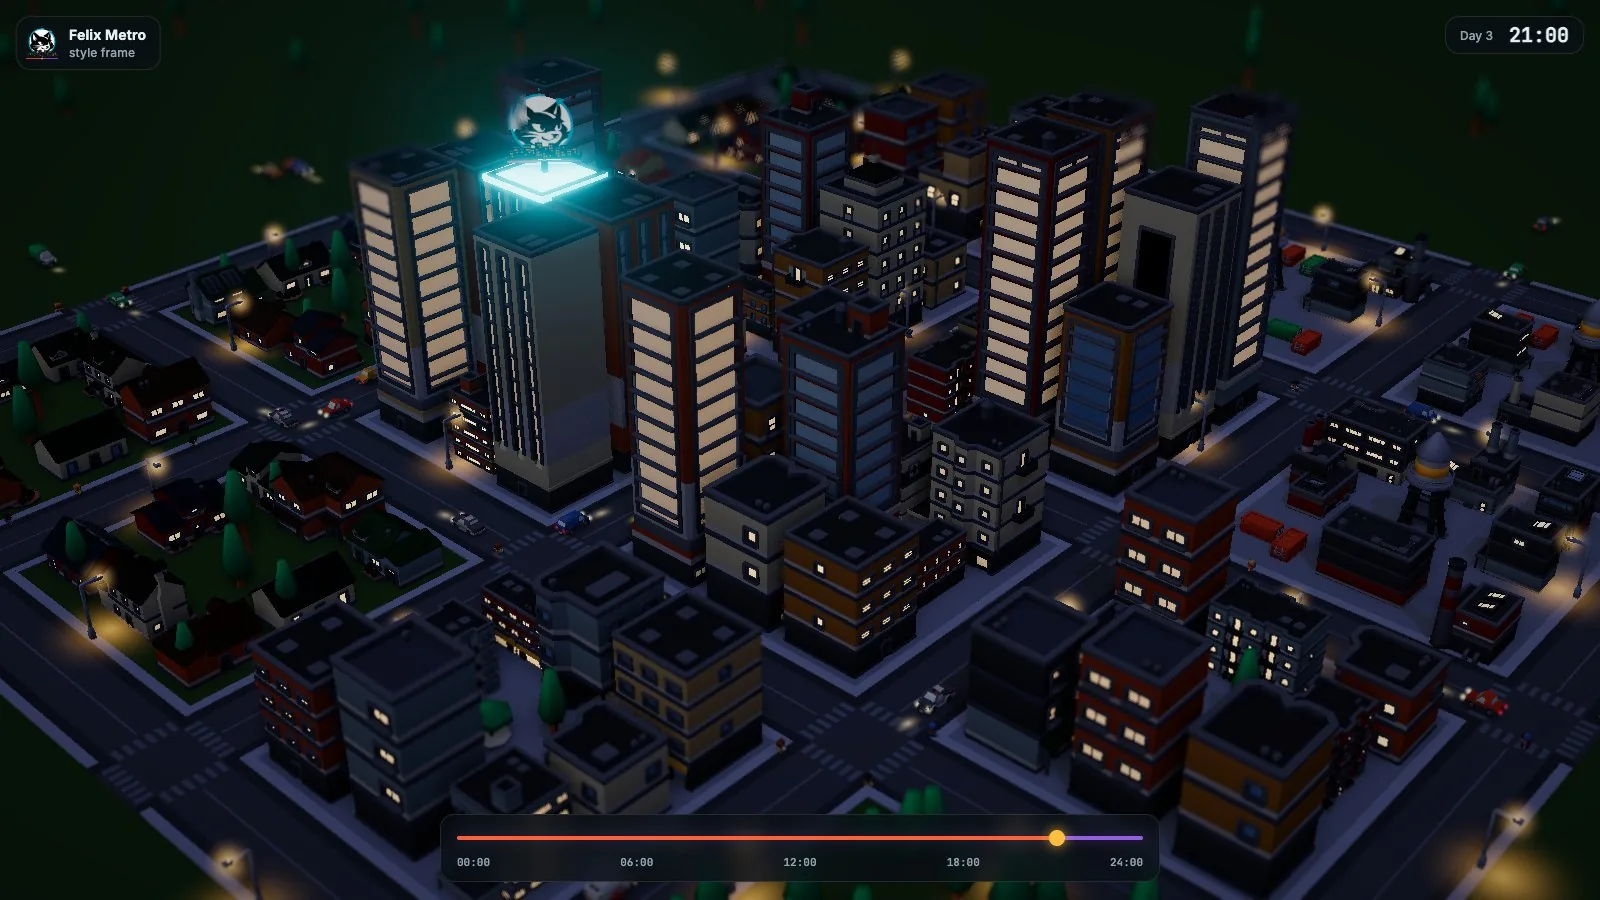
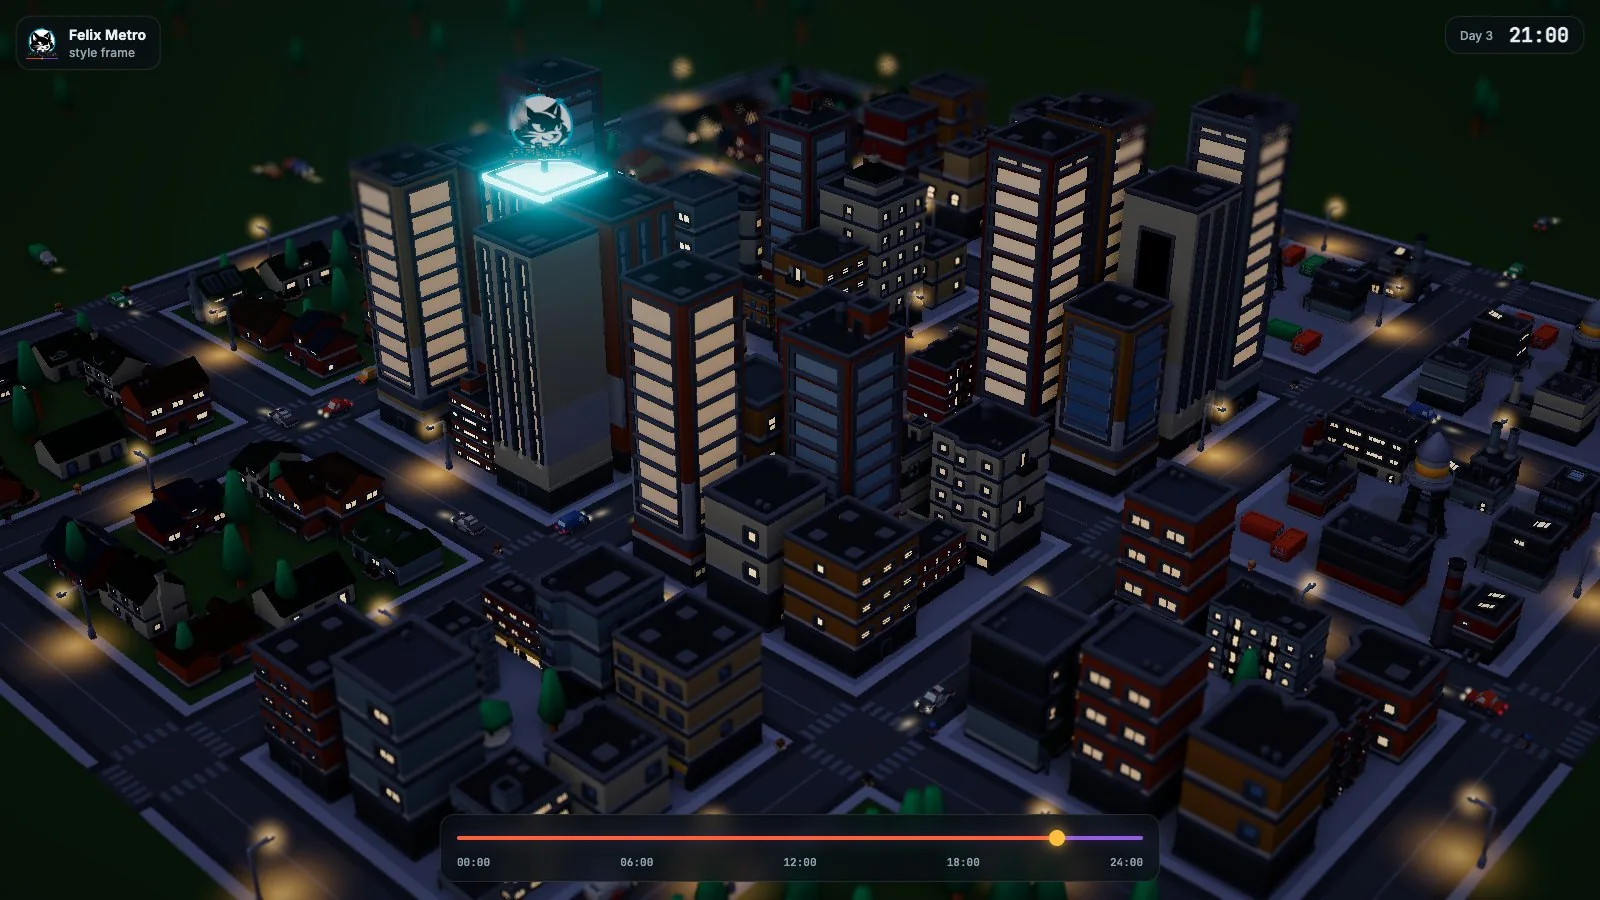
docs: felix-metro style frames with the street light fix

diff --git a/docs-site/src/content/docs/built-on-felix/metro.md b/docs-site/src/content/docs/built-on-felix/metro.md
@@ -15,7 +15,7 @@ design.
 
 | Day | Night |
 |---|---|
-| ![felix-metro style frame at noon: suburbs, downtown towers and an industrial district on a road grid, seen from above through a tilt-shift lens](/built-on-felix/metro-day.webp) | ![The same city at night, with lit windows, street lights and the Felix tower's cyan crown](/built-on-felix/metro-night.webp) |
+| ![felix-metro style frame at noon: suburbs, downtown towers and an industrial district on a road grid, seen from above through a tilt-shift lens](/built-on-felix/metro-day.webp?v=3) | ![The same city at night, with lit windows, street lights and the Felix tower's cyan crown](/built-on-felix/metro-night.webp?v=3) |
 
 ## How it uses Felix
 
